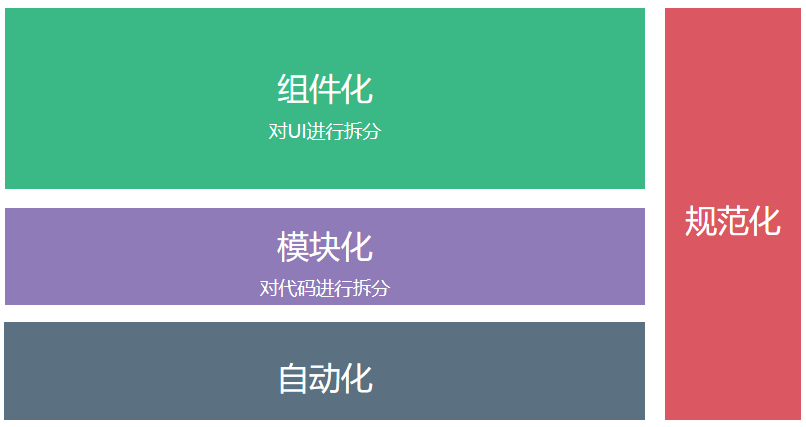
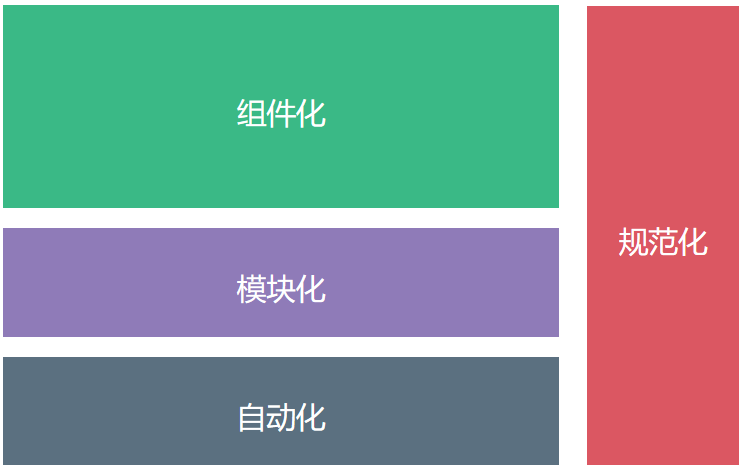
【docs\framework\01.前端工程.md】update：pictures

diff --git a/docs/framework/01.前端工程.md b/docs/framework/01.前端工程.md
@@ -4,10 +4,18 @@
 
 ![./images/01-1.png](./images/01-1.png)
 
+模块化： 对代码进行拆分，拆分成一个个文件，方便复用
+
+组件化： 对UI进行拆分，拆分成一个个组件，方便复用
+
 ## 2. 实现工程化
 
-![./images/01-1.png](./images/01-2.png)
+![./images/01-2.png](./images/01-2.png)
 
-## 3. 参考
+## 3. 组件化
+
+![./images/01-3.png](./images/01-3.png)
+
+## 4. 参考
 
 * [谁能介绍下web前端工程化？ —— 知乎](https://www.zhihu.com/question/24558375)
